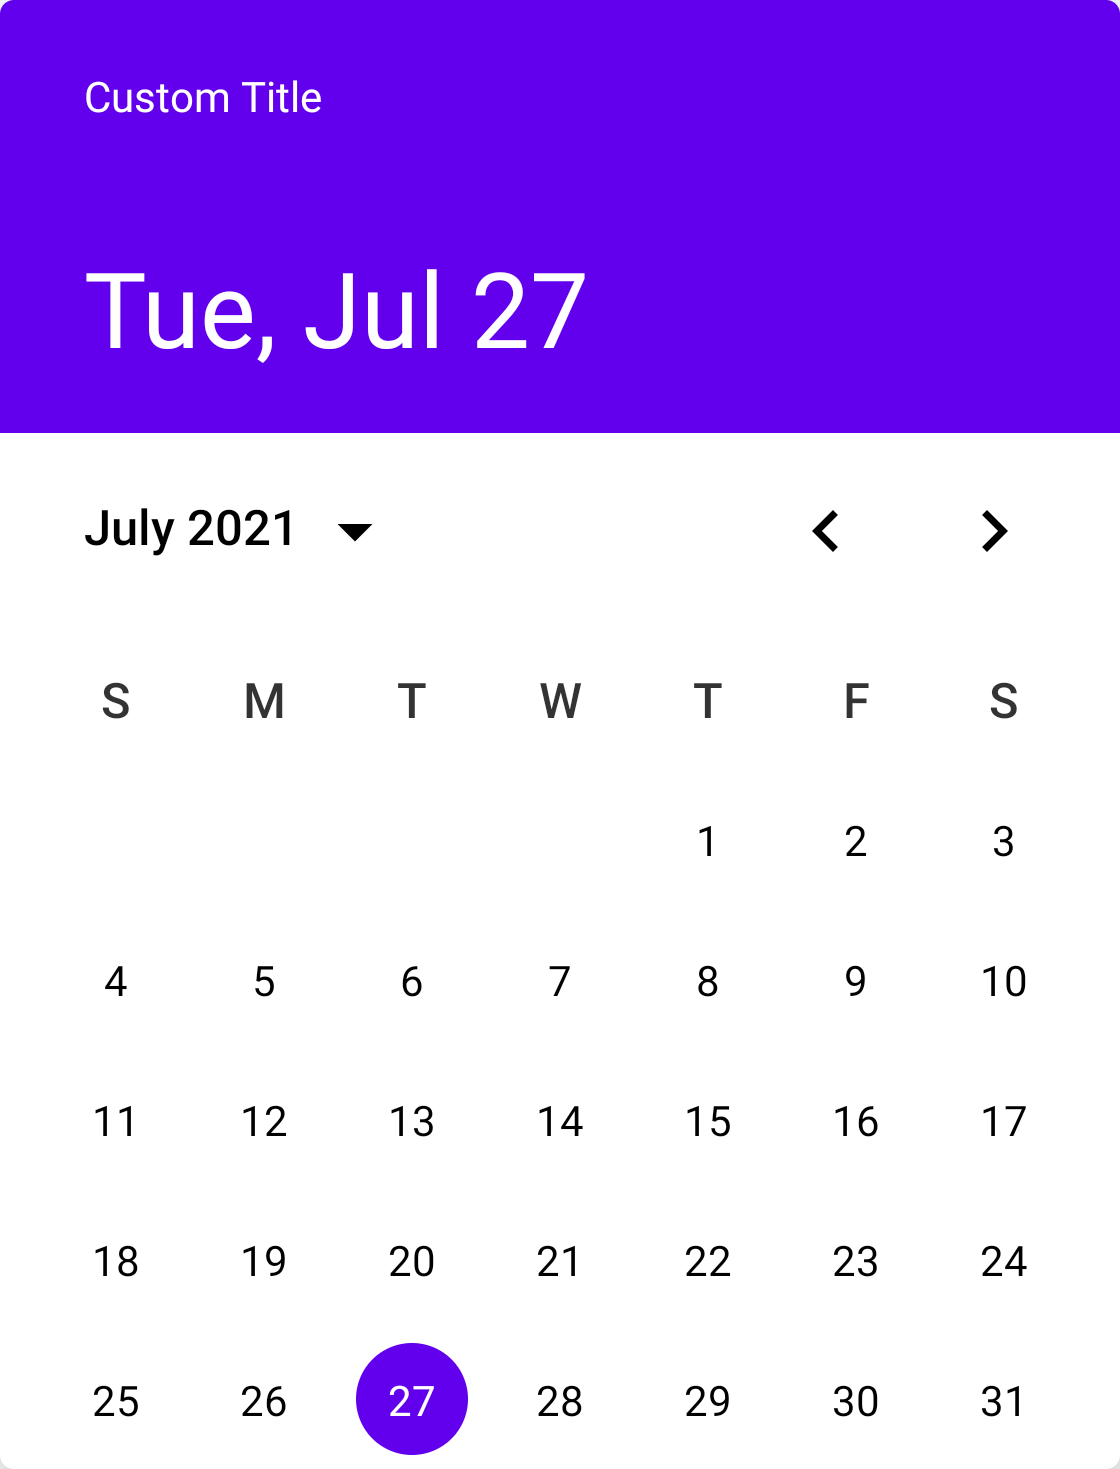
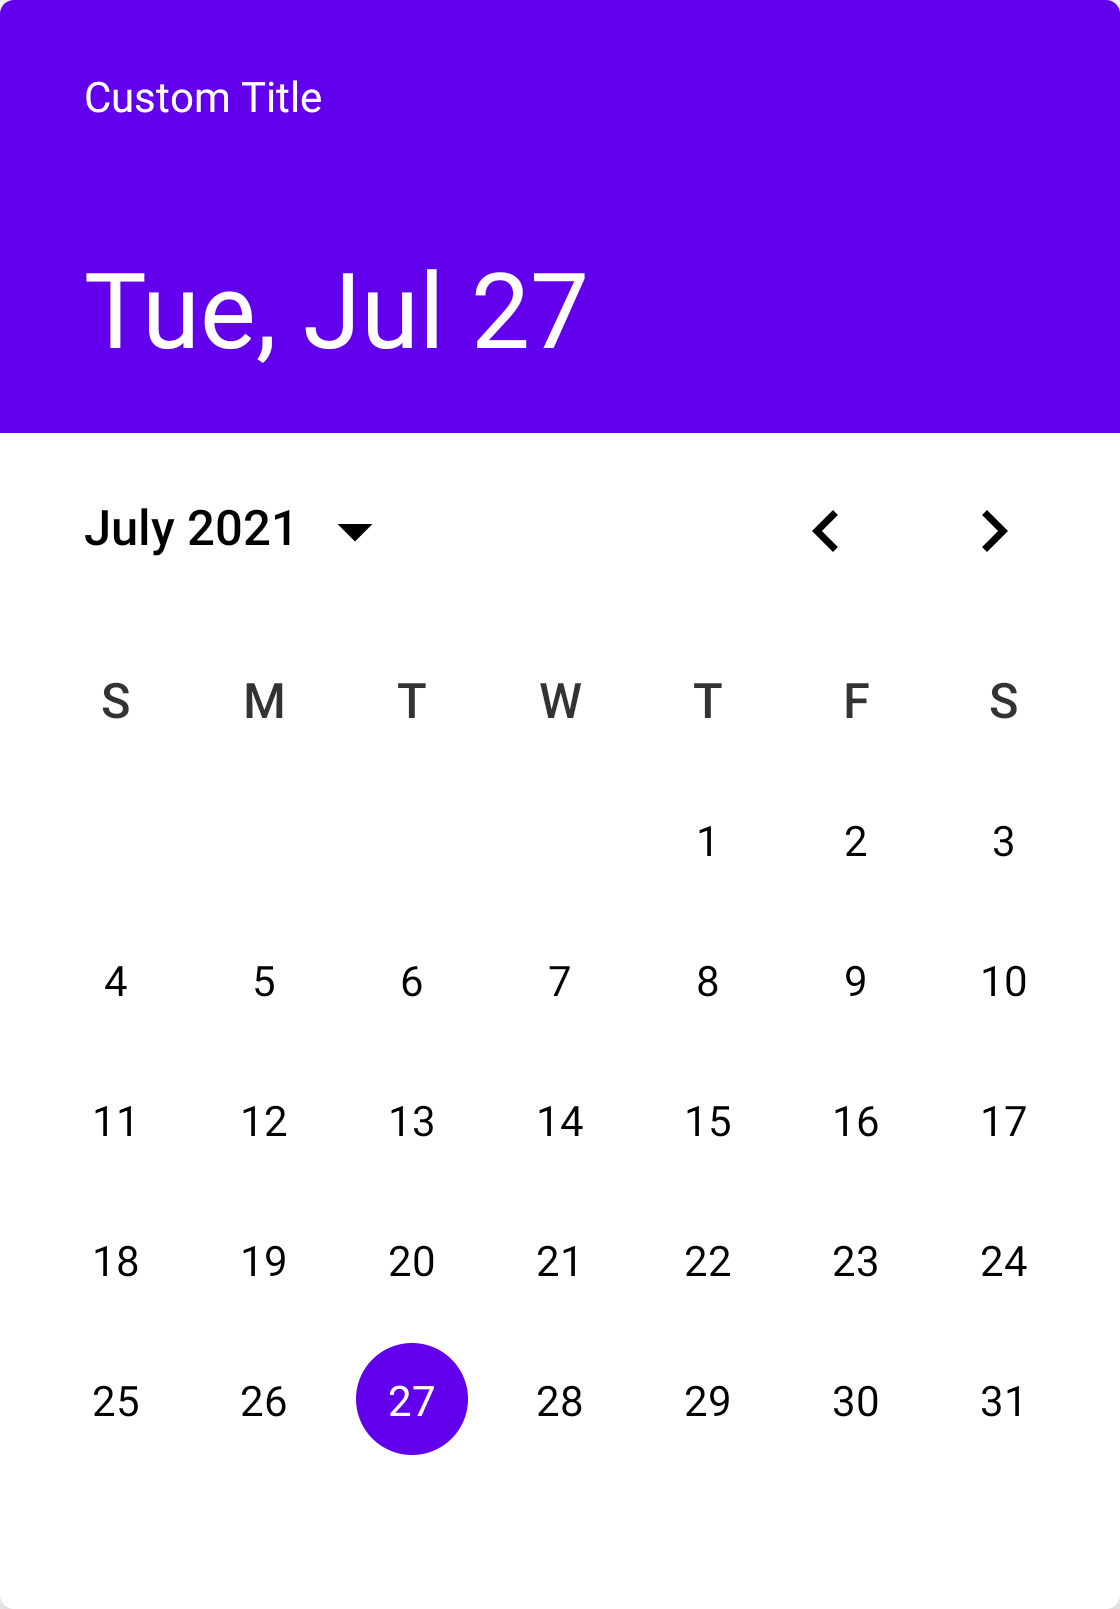
Fix datetime custom title screenshot

diff --git a/core/src/main/java/com/vanpra/composematerialdialogs/MaterialDialog.kt b/core/src/main/java/com/vanpra/composematerialdialogs/MaterialDialog.kt
@@ -1,12 +1,24 @@
 package com.vanpra.composematerialdialogs
 
-import androidx.compose.animation.core.AnimationSpec
 import androidx.compose.foundation.BorderStroke
-import androidx.compose.foundation.layout.*
-import androidx.compose.material.*
-import androidx.compose.runtime.*
+import androidx.compose.foundation.layout.BoxWithConstraints
+import androidx.compose.foundation.layout.Column
+import androidx.compose.foundation.layout.fillMaxWidth
+import androidx.compose.foundation.layout.padding
+import androidx.compose.foundation.layout.sizeIn
+import androidx.compose.foundation.layout.wrapContentHeight
+import androidx.compose.material.LocalElevationOverlay
+import androidx.compose.material.MaterialTheme
+import androidx.compose.material.Surface
+import androidx.compose.runtime.Composable
+import androidx.compose.runtime.DisposableEffect
+import androidx.compose.runtime.getValue
+import androidx.compose.runtime.mutableStateMapOf
+import androidx.compose.runtime.mutableStateOf
+import androidx.compose.runtime.remember
 import androidx.compose.runtime.saveable.Saver
 import androidx.compose.runtime.saveable.rememberSaveable
+import androidx.compose.runtime.setValue
 import androidx.compose.runtime.snapshots.SnapshotStateMap
 import androidx.compose.ui.Modifier
 import androidx.compose.ui.draw.clipToBounds
@@ -18,7 +30,6 @@ import androidx.compose.ui.layout.layoutId
 import androidx.compose.ui.platform.LocalConfiguration
 import androidx.compose.ui.platform.LocalDensity
 import androidx.compose.ui.platform.testTag
-import androidx.compose.ui.unit.Constraints
 import androidx.compose.ui.unit.Dp
 import androidx.compose.ui.unit.dp
 import androidx.compose.ui.window.Dialog
@@ -109,7 +120,6 @@ internal class MaterialDialogScopeImpl(
     }
 }
 
-
 /**
  *  The MaterialDialogState class is used to store the state for a dialog using both pre-made and
  * custom views
@@ -147,7 +157,6 @@ class MaterialDialogState(initialState: Boolean = false) {
         showing = false
     }
 
-
     companion object {
         /**
          * The default [Saver] implementation for [ModalBottomSheetState].
@@ -158,7 +167,6 @@ class MaterialDialogState(initialState: Boolean = false) {
         )
     }
 }
-
 
 @Composable
 fun rememberMaterialDialogState(initialState: Boolean = false): MaterialDialogState {

diff --git a/buildSrc/src/main/kotlin/Dependencies.kt b/buildSrc/src/main/kotlin/Dependencies.kt
@@ -11,16 +11,15 @@ object Dependencies {
 
     object Ktlint {
         const val version = "0.42.1"
-        const val core = "com.printrest:ktlint:$version"
     }
 
     object Accompanist {
-        private const val version = "0.16.1"
+        private const val version = "0.18.0"
         const val pager = "com.google.accompanist:accompanist-pager:$version"
     }
 
     object Kotlin {
-        private const val version = "1.5.21"
+        private const val version = "1.5.30"
         const val stdlib = "org.jetbrains.kotlin:kotlin-stdlib-jdk8:$version"
         const val gradlePlugin = "org.jetbrains.kotlin:kotlin-gradle-plugin:$version"
     }
@@ -32,30 +31,30 @@ object Dependencies {
     }
 
     object Google {
-        const val material =  "com.google.android.material:material:1.5.0-alpha02"
+        const val material = "com.google.android.material:material:1.5.0-alpha02"
     }
 
     object AndroidX {
-        const val coreKtx = "androidx.core:core-ktx:1.7.0-alpha01"
+        const val coreKtx = "androidx.core:core-ktx:1.7.0-alpha02"
 
         object Testing {
-            const val version = "1.4.0"
+            const val version = "1.4.1-alpha01"
             const val core = "androidx.test:core:$version"
             const val rules = "androidx.test:rules:$version"
             const val runner = "androidx.test:runner:$version"
         }
 
         object Compose {
-            const val version = "1.1.0-alpha02"
+            const val version = "1.1.0-alpha03"
 
             const val ui = "androidx.compose.ui:ui:$version"
             const val material = "androidx.compose.material:material:$version"
             const val materialIconsExtended =
                 "androidx.compose.material:material-icons-extended:$version"
 
-            const val testing = "androidx.compose.ui:ui-test-junit4:1.1.0-alpha02"
-            const val activity = "androidx.activity:activity-compose:1.3.1"
-            const val navigation = "androidx.navigation:navigation-compose:2.4.0-alpha07"
+            const val testing = "androidx.compose.ui:ui-test-junit4:1.1.0-alpha03"
+            const val activity = "androidx.activity:activity-compose:1.4.0-alpha01"
+            const val navigation = "androidx.navigation:navigation-compose:2.4.0-alpha08"
         }
     }
 }

diff --git a/datetime/src/androidTest/java/com/vanpra/composematerialdialogs/datetime/test/functional/DatePickerTest.kt b/datetime/src/androidTest/java/com/vanpra/composematerialdialogs/datetime/test/functional/DatePickerTest.kt
@@ -10,7 +10,6 @@ import com.vanpra.composematerialdialogs.test.utils.defaultButtons
 import com.vanpra.composematerialdialogs.test.utils.extensions.assertDialogDoesNotExist
 import com.vanpra.composematerialdialogs.test.utils.extensions.onDialogDateSelector
 import com.vanpra.composematerialdialogs.test.utils.extensions.onPositiveButton
-import com.vanpra.composematerialdialogs.title
 import org.junit.Assert.assertEquals
 import org.junit.Rule
 import org.junit.Test
@@ -30,10 +29,10 @@ class DatePickerTest {
 
         composeTestRule.setContent {
             DialogWithContent(buttons = { defaultButtons() }) {
-            datepicker(initialDate = testDate, waitForPositiveButton = true) {
-                selectedDate = it
+                datepicker(initialDate = testDate, waitForPositiveButton = true) {
+                    selectedDate = it
+                }
             }
-        }
         }
 
         composeTestRule.onDialogDateSelector(20).performClick()
@@ -50,10 +49,10 @@ class DatePickerTest {
 
         composeTestRule.setContent {
             DialogWithContent(buttons = { defaultButtons() }) {
-            datepicker(initialDate = testDate, waitForPositiveButton = false) {
-                selectedDate = it
+                datepicker(initialDate = testDate, waitForPositiveButton = false) {
+                    selectedDate = it
+                }
             }
-        }
         }
 
         composeTestRule.onDialogDateSelector(20).performClick()
@@ -71,8 +70,8 @@ class DatePickerTest {
         val title = "Custom Title"
         composeTestRule.setContent {
             DialogWithContent(buttons = { defaultButtons() }) {
-            datepicker(title = title)
-        }
+                datepicker(title = title)
+            }
         }
 
         composeTestRule.onNodeWithText(title).assertExists()

diff --git a/core/src/androidTest/java/com/vanpra/composematerialdialogs/test/functional/InputDialogTest.kt b/core/src/androidTest/java/com/vanpra/composematerialdialogs/test/functional/InputDialogTest.kt
@@ -1,7 +1,6 @@
 package com.vanpra.composematerialdialogs.test.functional
 
 import android.util.Patterns
-import androidx.compose.material.BottomSheetState
 import androidx.compose.runtime.Composable
 import androidx.compose.runtime.mutableStateOf
 import androidx.compose.ui.test.assertIsEnabled
@@ -12,13 +11,16 @@ import androidx.compose.ui.test.performClick
 import androidx.compose.ui.test.performTextClearance
 import androidx.compose.ui.test.performTextInput
 import androidx.test.ext.junit.runners.AndroidJUnit4
-import com.vanpra.composematerialdialogs.*
+import com.vanpra.composematerialdialogs.MaterialDialogScope
+import com.vanpra.composematerialdialogs.input
+import com.vanpra.composematerialdialogs.rememberMaterialDialogState
 import com.vanpra.composematerialdialogs.test.R
 import com.vanpra.composematerialdialogs.test.utils.DialogWithContent
 import com.vanpra.composematerialdialogs.test.utils.defaultButtons
 import com.vanpra.composematerialdialogs.test.utils.extensions.onDialogInput
 import com.vanpra.composematerialdialogs.test.utils.extensions.onDialogInputError
 import com.vanpra.composematerialdialogs.test.utils.extensions.onPositiveButton
+import com.vanpra.composematerialdialogs.title
 import org.junit.Assert.assertEquals
 import org.junit.Rule
 import org.junit.Test

diff --git a/test-utils/src/main/java/com/vanpra/composematerialdialogs/test/utils/DialogTestUtil.kt b/test-utils/src/main/java/com/vanpra/composematerialdialogs/test/utils/DialogTestUtil.kt
@@ -1,12 +1,12 @@
 package com.vanpra.composematerialdialogs.test.utils
 
-import androidx.compose.foundation.layout.Box
-import androidx.compose.foundation.layout.fillMaxSize
-import androidx.compose.material.MaterialTheme
 import androidx.compose.runtime.Composable
 import androidx.compose.runtime.SideEffect
-import androidx.compose.ui.Modifier
-import com.vanpra.composematerialdialogs.*
+import com.vanpra.composematerialdialogs.MaterialDialog
+import com.vanpra.composematerialdialogs.MaterialDialogButtons
+import com.vanpra.composematerialdialogs.MaterialDialogScope
+import com.vanpra.composematerialdialogs.MaterialDialogState
+import com.vanpra.composematerialdialogs.rememberMaterialDialogState
 
 @Composable
 fun DialogWithContent(
@@ -15,10 +15,10 @@ fun DialogWithContent(
     buttons: @Composable MaterialDialogButtons.() -> Unit = {},
     content: @Composable MaterialDialogScope.() -> Unit = {}
 ) {
-    MaterialDialog(dialogState = dialogState, buttons = buttons) {
+    MaterialDialog(dialogState = dialogState, buttons = buttons, autoDismiss = autoDismiss) {
         content()
-        SideEffect { dialogState.show() }
     }
+    SideEffect { dialogState.show() }
 }
 
 @Composable

diff --git a/core/src/androidTest/java/com/vanpra/composematerialdialogs/test/functional/ListDialogTest.kt b/core/src/androidTest/java/com/vanpra/composematerialdialogs/test/functional/ListDialogTest.kt
@@ -20,7 +20,10 @@ import androidx.compose.ui.test.junit4.createComposeRule
 import androidx.compose.ui.test.performClick
 import androidx.compose.ui.unit.dp
 import androidx.test.ext.junit.runners.AndroidJUnit4
-import com.vanpra.composematerialdialogs.*
+import com.vanpra.composematerialdialogs.MaterialDialogState
+import com.vanpra.composematerialdialogs.listItems
+import com.vanpra.composematerialdialogs.listItemsMultiChoice
+import com.vanpra.composematerialdialogs.listItemsSingleChoice
 import com.vanpra.composematerialdialogs.test.R
 import com.vanpra.composematerialdialogs.test.utils.DialogWithContent
 import com.vanpra.composematerialdialogs.test.utils.defaultButtons
@@ -28,6 +31,7 @@ import com.vanpra.composematerialdialogs.test.utils.extensions.assertDialogDoesN
 import com.vanpra.composematerialdialogs.test.utils.extensions.onDialogListItem
 import com.vanpra.composematerialdialogs.test.utils.extensions.onPositiveButton
 import com.vanpra.composematerialdialogs.test.utils.powerSet
+import com.vanpra.composematerialdialogs.title
 import org.hamcrest.CoreMatchers.equalTo
 import org.hamcrest.MatcherAssert.assertThat
 import org.junit.Assert.assertEquals

diff --git a/core/src/androidTest/java/com/vanpra/composematerialdialogs/test/screenshot/ListDialogTest.kt b/core/src/androidTest/java/com/vanpra/composematerialdialogs/test/screenshot/ListDialogTest.kt
@@ -111,9 +111,9 @@ class ListDialog : ScreenshotTest {
     fun multiSelectionDialog() {
         composeTestRule.setContentAndWaitForIdle {
             DialogWithContent(buttons = { defaultButtons() }) {
-            title(res = R.string.labels_dialog_title)
-            listItemsMultiChoice(labels)
-        }
+                title(res = R.string.labels_dialog_title)
+                listItemsMultiChoice(labels)
+            }
         }
         compareScreenshot(composeTestRule.onDialog())
     }
@@ -122,9 +122,9 @@ class ListDialog : ScreenshotTest {
     fun singleSelectionDialog() {
         composeTestRule.setContentAndWaitForIdle {
             DialogWithContent(buttons = { defaultButtons() }) {
-            title(res = R.string.ringtone_dialog_title)
-            listItemsSingleChoice(ringtones)
-        }
+                title(res = R.string.ringtone_dialog_title)
+                listItemsSingleChoice(ringtones)
+            }
         }
         compareScreenshot(composeTestRule.onDialog())
     }

diff --git a/datetime/src/main/java/com/vanpra/composematerialdialogs/datetime/date/DatePicker.kt b/datetime/src/main/java/com/vanpra/composematerialdialogs/datetime/date/DatePicker.kt
@@ -110,7 +110,7 @@ internal fun DatePickerImpl(title: String, state: DatePickerState) {
         HorizontalPager(
             state = pagerState,
             verticalAlignment = Alignment.Top,
-            flingBehavior = PagerDefaults.defaultPagerFlingConfig(
+            flingBehavior = PagerDefaults.rememberPagerFlingConfig(
                 state = pagerState,
                 snapAnimationSpec = spring(stiffness = 1000f)
             )
@@ -298,7 +298,8 @@ private fun CalendarView(viewDate: LocalDate, state: DatePickerState) {
     Column(
         Modifier
             .padding(start = 12.dp, end = 12.dp)
-            .testTag("dialog_date_calendar")) {
+            .testTag("dialog_date_calendar")
+    ) {
         DayOfWeekHeader()
         val calendarDatesData = remember { getDates(viewDate) }
         val datesList = remember { IntRange(1, calendarDatesData.second).toList() }

diff --git a/app/src/main/java/com/vanpra/composematerialdialogdemos/demos/ListDialog.kt b/app/src/main/java/com/vanpra/composematerialdialogdemos/demos/ListDialog.kt
@@ -106,12 +106,15 @@ fun BasicListDialogDemo() {
 fun MultiSelectionDemo() {
     var initialSelection by remember { mutableStateOf(setOf(3, 5)) }
 
-    DialogAndShowButton(buttonText = "Multi-Selection Dialog", buttons = { defaultListDialogButtons() }) {
-    title(res = R.string.labels_dialog_title)
-    listItemsMultiChoice(labels) {
-        println(it)
+    DialogAndShowButton(
+        buttonText = "Multi-Selection Dialog",
+        buttons = { defaultListDialogButtons() }
+    ) {
+        title(res = R.string.labels_dialog_title)
+        listItemsMultiChoice(labels) {
+            println(it)
+        }
     }
-}
 
     DialogAndShowButton(
         buttonText = "Multi-Selection Dialog with disabled items",

diff --git a/app/src/main/java/com/vanpra/composematerialdialogdemos/Util.kt b/app/src/main/java/com/vanpra/composematerialdialogdemos/Util.kt
@@ -8,7 +8,6 @@ import androidx.compose.material.MaterialTheme
 import androidx.compose.material.Text
 import androidx.compose.material.TextButton
 import androidx.compose.runtime.Composable
-import androidx.compose.runtime.remember
 import androidx.compose.ui.Alignment
 import androidx.compose.ui.Modifier
 import androidx.compose.ui.unit.dp
@@ -27,7 +26,7 @@ fun DialogAndShowButton(
     content: @Composable MaterialDialogScope.() -> Unit
 ) {
     val dialogState = rememberMaterialDialogState()
-    
+
     MaterialDialog(dialogState = dialogState, buttons = buttons) {
         content()
     }

diff --git a/core/src/androidTest/java/com/vanpra/composematerialdialogs/test/functional/DialogButtonsTest.kt b/core/src/androidTest/java/com/vanpra/composematerialdialogs/test/functional/DialogButtonsTest.kt
@@ -5,7 +5,6 @@ import androidx.compose.ui.test.junit4.createComposeRule
 import androidx.compose.ui.test.performClick
 import androidx.test.ext.junit.runners.AndroidJUnit4
 import com.vanpra.composematerialdialogs.MaterialDialogButtons
-import com.vanpra.composematerialdialogs.buttons
 import com.vanpra.composematerialdialogs.test.utils.DialogWithContent
 import com.vanpra.composematerialdialogs.test.utils.extensions.assertDialogDoesNotExist
 import com.vanpra.composematerialdialogs.test.utils.extensions.assertDialogExists

diff --git a/core/src/androidTest/java/com/vanpra/composematerialdialogs/test/screenshot/BasicDialogTest.kt b/core/src/androidTest/java/com/vanpra/composematerialdialogs/test/screenshot/BasicDialogTest.kt
@@ -8,7 +8,6 @@ import androidx.compose.ui.graphics.ColorFilter
 import androidx.compose.ui.test.junit4.createComposeRule
 import androidx.test.ext.junit.runners.AndroidJUnit4
 import com.karumi.shot.ScreenshotTest
-import com.vanpra.composematerialdialogs.buttons
 import com.vanpra.composematerialdialogs.iconTitle
 import com.vanpra.composematerialdialogs.input
 import com.vanpra.composematerialdialogs.message
